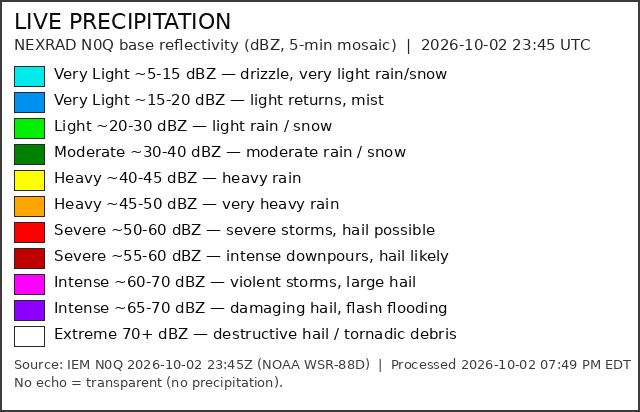
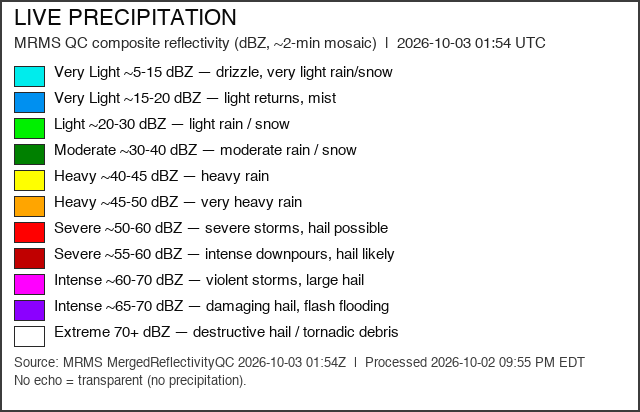
Precipitation source: MRMS QC reflectivity (drops N0Q clutter/bio echoes)

diff --git a/scripts/build_precipitation.py b/scripts/build_precipitation.py
@@ -1,33 +1,35 @@
 """Pipeline P1 — LIVE PRECIPITATION (independent).
 
-Source: Iowa Environmental Mesonet (Iowa State University) CONUS NEXRAD
-N0Q Base Reflectivity mosaic, built from the NOAA NWS WSR-88D Level-III
-network and regenerated every 5 minutes. Professional + credible:
-Iowa State archives the operational NWS feed and serves it as an OGC WMS.
+Source: NOAA NCEP MRMS MergedReflectivityQC (quality-controlled composite
+reflectivity), operational NSSL science distributed by NCEP, new files
+about every 2 minutes. Professional + credible: the same QC mosaic NWS
+forecasters use.
 
-Method: WMS GetMap for the exact common canvas
-(lon -93..-73.5, lat 40.5..49.5, 1800x1175, EPSG:4326, transparent PNG).
-The WMS renders the N0Q palette itself (cyan/blue = Very Light,
-green = Light/Moderate, yellow/orange = Heavy, red = Severe,
-magenta/purple = Intense, white = Extreme) so the live gradient in
-Google Earth IS the source's real-time gradient — never a recolor.
-No-precipitation pixels arrive fully transparent (alpha 0) and are
-kept transparent.
+Why QC instead of raw NEXRAD N0Q: the unfiltered N0Q mosaic passes
+non-precipitation echoes straight through — nighttime anomalous
+propagation and migrating birds/insects render as bright-green rings and
+blobs centered on radar sites, sitting in clear air where the cloud
+layer (and the sky) show nothing. Verified 2026-10-02: N0Q painted
+~16% of the basin while MRMS QC showed clear air at the same cells and
+kept only real echoes (max 34.5 dBZ, eastern lakes). QC filtering keeps
+rain, snow, and thunderstorms in all seasons and drops the rest.
 
-All seasons / all types: base reflectivity is echo strength from any
-hydrometeor — spring/summer/fall rain, winter snow + lake-effect snow,
-thunderstorms + hail whenever convection fires. Reflectivity does not
-classify type; it shows intensity, which is exactly what the Light /
-Moderate / Heavy / Severe / Intense / Extreme key explains.
+Method: list the MRMS directory, take the newest file, decode its dBZ
+grid (eccodes), bin the basin window onto the exact common canvas
+(lon -93..-73.5, lat 40.5..49.5, 1800x1175, EPSG:4326), and render the
+NWS-family palette (cyan/blue = Very Light, green = Light/Moderate,
+yellow/orange = Heavy, red = Severe, magenta/purple = Intense,
+white = Extreme) so the live gradient IS real-time source intensity —
+never a recolor. No-echo and no-coverage cells stay fully transparent
+(alpha 0); nothing is invented where the source has none.
 
 Raster-only GroundOverlay (never a video: Google Earth has no live
 video primitive — the overlay refreshes). Google Earth side refreshes
 every 30 s (fastest practical cadence: each poll re-fetches the live
 KML, and the overlay Icon re-requests its PNG, so a newly published
 scan appears within about half a minute; polling faster would only
-re-download an unchanged image since the source itself rebuilds every
-5 minutes). Source cadence is 5 minutes
-(IEM rebuilds the mosaic every 5 min); the 30 s poll guarantees no
+re-download an unchanged image since the source itself rebuilds about
+every 2 minutes). The 30 s poll guarantees no
 extra staleness is added client-side.
 
 Exit codes: 0 updated (or skipped); 2 source/validation failure
@@ -35,8 +37,10 @@ Exit codes: 0 updated (or skipped); 2 source/validation failure
 """
 
 import datetime as dt
+import gzip
 import json
 import os
+import re
 import sys
 import traceback
 import urllib.request
@@ -53,6 +57,7 @@ from geospatial_utils import (REPO_ROOT, SITE_DIR, USER_AGENT, base_metadata,
                               read_state, save_png, source_token, stage_dir,
                               write_metadata, write_state)
 from geospatial_utils import _legend_font, draw_category_legend  # noqa: F401 (shared helpers)
+from gradient_scale import render_rgba
 
 PRODUCT = "precipitation"
 CONFIG = json.load(open(os.path.join(REPO_ROOT, "config", f"{PRODUCT}.json")))
@@ -79,7 +84,8 @@ KEY_ROWS = [
 ]
 
 SCALE_HTML = (
-    "Precipitation intensity (NEXRAD N0Q base reflectivity, dBZ, OBSERVED radar echo): "
+    "Precipitation intensity (MRMS quality-controlled composite "
+    "reflectivity, dBZ, OBSERVED radar echo): "
     "<b>LOWEST 5 Very Light</b> cyan/blue (drizzle, mist) &rarr; "
     "<b>Light</b> greens (~20-30: light rain/snow) &rarr; "
     "<b>Moderate</b> dark green (~30-40: steady rain/snow) &rarr; "
@@ -88,18 +94,100 @@ SCALE_HTML = (
     "<b>Intense</b> magenta/purple (~60-70: violent storms, large hail) &rarr; "
     "<b>HIGHEST+ 70+ Extreme</b> white (destructive hail, debris). "
     "Same dBZ always shows the same color in every season — rain, snow, "
-    "lake-effect snow, thunderstorms. No echo (no precipitation) stays "
-    "see-through so the map underneath shows.")
+    "lake-effect snow, thunderstorms. The quality-controlled mosaic "
+    "filters non-precipitation echoes (ground clutter, migrating "
+    "birds/insects), so clear air stays see-through and only real "
+    "precipitation paints.")
+
+# Continuous dBZ anchors through the key colors (band centers exact).
+DBZ_STOPS = [
+    (5.0, (0, 236, 236)),
+    (17.0, (0, 144, 240)),
+    (25.0, (0, 240, 0)),
+    (35.0, (0, 128, 0)),
+    (42.0, (255, 255, 0)),
+    (47.0, (255, 165, 0)),
+    (55.0, (255, 0, 0)),
+    (65.0, (255, 0, 255)),
+    (68.0, (139, 0, 255)),
+    (72.0, (255, 255, 255)),
+    (75.0, (255, 255, 255)),
+]
+
+# MRMS QC reflectivity below this is sensor floor/clear — never painted.
+# (-99 = observed clear, -999 = no coverage; lowest real echo seen -10.)
+ECHO_FLOOR_DBZ = -30.0
+
+MRMS_DIR = "https://mrms.ncep.noaa.gov/2D/MergedReflectivityQC/"
+MRMS_RE = re.compile(
+    r"MRMS_MergedReflectivityQC_00\.50_(\d{8})-(\d{6})\.grib2\.gz")
 
 
-def wms_url():
-    b = load_bounds()
-    return (
-        f"{CONFIG['wms_url']}?SERVICE=WMS&VERSION=1.1.1&REQUEST=GetMap"
-        f"&LAYERS={CONFIG['wms_layer']}&STYLES=&SRS=EPSG:4326"
-        f"&BBOX={b['lon_min']},{b['lat_min']},{b['lon_max']},{b['lat_max']}"
-        f"&WIDTH={b['canvas_width']}&HEIGHT={b['canvas_height']}"
-        f"&FORMAT=image/png&TRANSPARENT=TRUE")
+def newest_mrms():
+    """Newest MRMS QC file (name, scan datetime UTC). Raises on failure."""
+    req = urllib.request.Request(MRMS_DIR, headers=USER_AGENT)
+    with urllib.request.urlopen(req, timeout=60) as r:
+        html = r.read().decode("utf-8", errors="replace")
+    cands = []
+    for m in MRMS_RE.finditer(html):
+        try:
+            scan = dt.datetime.strptime(m.group(1) + m.group(2),
+                                        "%Y%m%d%H%M%S")
+            scan = scan.replace(tzinfo=dt.timezone.utc)
+            cands.append((scan, m.group(0)))
+        except ValueError:
+            continue
+    if not cands:
+        raise ValueError("no MRMS QC files in directory listing")
+    cands.sort()
+    return cands[-1][1], cands[-1][0]
+
+
+def read_mrms_grid(path, bounds):
+    """Decode MRMS QC GRIB2 and return dBZ field on the common canvas."""
+    from eccodes import (codes_get, codes_get_values, codes_grib_new_from_file,
+                         codes_release)
+    with open(path, "rb") as f:
+        g = codes_grib_new_from_file(f)
+        if g is None:
+            raise ValueError("no GRIB message in file")
+        try:
+            nx = codes_get(g, "Nx")
+            ny = codes_get(g, "Ny")
+            lat0 = codes_get(g, "latitudeOfFirstGridPointInDegrees")
+            lon0 = codes_get(g, "longitudeOfFirstGridPointInDegrees")
+            lat1 = codes_get(g, "latitudeOfLastGridPointInDegrees")
+            lon1 = codes_get(g, "longitudeOfLastGridPointInDegrees")
+            vals = np.asarray(codes_get_values(g), dtype=float).reshape(ny, nx)
+        finally:
+            codes_release(g)
+    lon0 = lon0 - 360.0 if lon0 > 180 else lon0
+    lon1 = lon1 - 360.0 if lon1 > 180 else lon1
+    dx = (lon1 - lon0) / (nx - 1)
+    dy = (lat0 - lat1) / (ny - 1)  # rows run north -> south
+    if not (0.005 < dx < 0.02 and 0.005 < dy < 0.02):
+        raise ValueError(f"unexpected MRMS grid step {dx}/{dy}")
+    # Basin window slice (source ~1 km vs ~1.2 km canvas: cheap + exact).
+    j0 = max(int((bounds["lon_min"] - lon0) / dx) - 1, 0)
+    j1 = min(int((bounds["lon_max"] - lon0) / dx) + 2, nx)
+    i1 = max(int((lat0 - bounds["lat_max"]) / dy) - 1, 0)
+    i0 = min(int((lat0 - bounds["lat_min"]) / dy) + 2, ny)
+    if j1 <= j0 or i0 <= i1:
+        raise ValueError("basin window outside MRMS domain")
+    win = vals[i1:i0, j0:j1]
+    lons = lon0 + (np.arange(j0, j1) + 0.5) * dx
+    lats = lat0 - (np.arange(i1, i0) + 0.5) * dy
+    xx, yy = np.meshgrid(lons, lats)
+    from geospatial_utils import bin_to_canvas, canvas_indices
+    W, H = bounds["canvas_width"], bounds["canvas_height"]
+    rows, cols, valid = canvas_indices(yy, xx, bounds)
+    wflat = np.ascontiguousarray(win).ravel()
+    mask = valid & np.isfinite(wflat)
+    field, _c = bin_to_canvas(rows, cols, wflat, mask,
+                              (H, W), splat_radius=1)
+    field = np.where(np.isfinite(field) & (field >= ECHO_FLOOR_DBZ),
+                     field, np.nan)
+    return field
 
 
 def main():
@@ -113,24 +201,23 @@ def main():
 
 
 def run():
-    # Source id: current UTC 5-minute bin (IEM rebuilds the mosaic every
-    # 5 min). Cheap pre-check with no bulk state: the build itself IS the
-    # probe — a failed download keeps the previous raster (exit 2).
-    now = dt.datetime.now(dt.timezone.utc)
-    minute_bin = (now.minute // 5) * 5
-    scan_dt = now.replace(minute=minute_bin, second=0, microsecond=0)
-    source_id = f"iem-n0q-{scan_dt.strftime('%Y%m%d-%H%M')}"
+    # Source id: newest MRMS QC file on NCEP (2-minute cadence). The
+    # directory listing is the cheap pre-check: only a new filename
+    # triggers the ~250 KB download + decode.
+    try:
+        fname, scan_dt = newest_mrms()
+    except Exception as e:
+        print(f"[{PRODUCT}] NO FILE AVAILABLE (keeping previous): {e}")
+        return 2
+    source_id = f"mrms-qc-{scan_dt.strftime('%Y%m%d-%H%M%S')}"
     prev = read_state(PRODUCT)
-    # NOTE: no byte-stability skip here beyond the same-bin fast path:
-    # precipitation moves fast, and the workflow runs on the 12-minute
-    # cadence, so consecutive runs in one 5-min bin reuse the raster.
     if (prev.get("source_id") == source_id
             and os.path.exists(os.path.join(SITE_DIR, PRODUCT, "current.png"))
             and os.path.exists(os.path.join(SITE_DIR, "kml", "live", KML_FILE))):
         print(f"[{PRODUCT}] source unchanged ({source_id}); keeping raster.")
         return _refresh_kml()
     try:
-        return _build(scan_dt, source_id)
+        return _build(fname, scan_dt, source_id)
     except Exception as e:
         traceback.print_exc()
         print(f"[{PRODUCT}] VALIDATION FAILED: {type(e).__name__}: {e}. "
@@ -148,69 +235,72 @@ def _refresh_kml():
     return 0
 
 
-def _build(scan_dt, source_id):
+def _build(fname, scan_dt, source_id):
     bounds = load_bounds()
     stage = stage_dir(PRODUCT)
     stage_prod = os.path.join(stage, "site", PRODUCT)
     os.makedirs(stage_prod, exist_ok=True)
     W, H = bounds["canvas_width"], bounds["canvas_height"]
 
-    url = wms_url()
-    raw_path = os.path.join(RAW_DIR, "precip_n0q_current.png")
+    raw_path = os.path.join(RAW_DIR, "mrms_qc_current.grib2.gz")
     os.makedirs(RAW_DIR, exist_ok=True)
-    req = urllib.request.Request(url, headers=USER_AGENT)
-    with urllib.request.urlopen(req, timeout=120) as r:
+    req = urllib.request.Request(MRMS_DIR + fname, headers=USER_AGENT)
+    with urllib.request.urlopen(req, timeout=180) as r:
         data = r.read()
-    if len(data) < 20_000:
-        raise ValueError(f"WMS download too small ({len(data)} bytes)")
+    if len(data) < 50_000:
+        raise ValueError(f"MRMS download too small ({len(data)} bytes)")
     with open(raw_path, "wb") as f:
         f.write(data)
+    gz_path = os.path.join(RAW_DIR, "mrms_qc_current.grib2")
+    with gzip.open(raw_path, "rb") as zin, open(gz_path, "wb") as zout:
+        zout.write(zin.read())
+    if os.path.getsize(gz_path) < 100_000:
+        raise ValueError("MRMS GRIB2 too small after gunzip")
 
-    im = Image.open(raw_path).convert("RGBA")
-    if im.size != (W, H):
-        # WMS was asked for the exact canvas; resampling here would blur
-        # radar edges, so a size mismatch is a hard failure (keep previous).
-        raise ValueError(f"WMS image size {im.size} != canvas {(W, H)}")
-    rgba = np.array(im)
-    # No-precipitation transparency: the WMS returns alpha 0 where there
-    # is no echo. Enforce it (fully transparent stays transparent) and
-    # never invent color where the source has none.
-    n_opaque = int((rgba[:, :, 3] > 0).sum())
-    print(f"[{PRODUCT}] IEM N0Q {scan_dt:%Y-%m-%d %H:%MZ}: opaque={n_opaque} "
-          f"({100.0 * n_opaque / (W * H):.1f}% of canvas)")
+    field = read_mrms_grid(gz_path, bounds)
+    okv = np.isfinite(field)
+    n_valid = int(okv.sum())
+    cur_max = float(field[okv].max()) if n_valid else float("nan")
+    print(f"[{PRODUCT}] MRMS QC {scan_dt:%Y-%m-%d %H:%M:%SZ}: "
+          f"echo={n_valid} ({100.0 * n_valid / (W * H):.1f}% of canvas), "
+          f"max={cur_max:.1f} dBZ")
     # Clear-sky over the basin is VALID (transparent raster is honest, not
     # a failure) — same semantics as cloud_cover on a clear day.
 
+    rgba = render_rgba(field, list(DBZ_STOPS), bounds["overlay_alpha"])
     save_png(rgba, os.path.join(stage_prod, "current.png"))
+    n_opaque = int((rgba[:, :, 3] > 0).sum())
+    if n_opaque != n_valid:
+        raise ValueError("render/field transparency mismatch")
 
     data_time_utc = scan_dt.strftime("%Y-%m-%d %H:%M UTC")
-    subtitle = (f"NEXRAD N0Q base reflectivity (dBZ, 5-min mosaic)  |  "
+    subtitle = (f"MRMS QC composite reflectivity (dBZ, ~2-min mosaic)  |  "
                 f"{data_time_utc}")
     lw, lh = draw_category_legend(
         os.path.join(stage_prod, "legend.png"), CONFIG["title"], subtitle,
         KEY_ROWS,
-        f"Source: IEM N0Q {scan_dt:%Y-%m-%d %H:%MZ} (NOAA WSR-88D)  |  "
+        f"Source: MRMS MergedReflectivityQC {scan_dt:%Y-%m-%d %H:%MZ}  |  "
         f"Processed {now_det_str()}",
         note="No echo = transparent (no precipitation).")
     meta = base_metadata(
         PRODUCT, CONFIG["title"], CONFIG["freshness_label"],
         CONFIG["source_name"], CONFIG["source_url"], CONFIG["variable"],
         data_time_utc=data_time_utc,
-        source_last_modified_utc="n/a (WMS GetMap mosaic)",
+        source_last_modified_utc=fname,
         units="dBZ (display = observed dBZ)",
-        source_resolution="~1 km NEXRAD N0Q mosaic, 5-minute rebuilds; "
-                          "WMS GetMap sampled at the 1800x1175 canvas",
+        source_resolution="~1 km MRMS QC grid (7000x3500 CONUS), 2-minute files; "
+                          "basin window mean-binned to the 1800x1175 canvas",
         color_min=5.0, color_max=75.0, color_units="dBZ",
-        missing_data_treatment=("only WMS echo pixels paint; no-echo and "
-                                "missing render fully transparent (alpha 0); "
-                                "full basin rectangle, no shoreline cut; "
-                                "never zero-filled."))
+        missing_data_treatment=("only MRMS cells at/above the echo floor paint; "
+                                "clear-air (-99) and no-coverage (-999) render "
+                                "fully transparent (alpha 0); full basin "
+                                "rectangle, no shoreline cut; never zero-filled."))
     meta["legend_size"] = [lw, lh]
     meta["legend_scale_html"] = SCALE_HTML
-    meta["model_cycle"] = f"IEM N0Q mosaic {scan_dt:%Y-%m-%d %H:%MZ}"
+    meta["model_cycle"] = f"MRMS QC {scan_dt:%Y-%m-%d %H:%M:%SZ}"
     meta["source_id"] = source_id
     meta["source_version"] = source_token(source_id)
-    meta["wms_request"] = url
+    meta["mrms_file"] = fname
     meta["stats"] = {"opaque_pixels": n_opaque,
                      "transparent_pixels": int(W * H - n_opaque)}
     token = meta["source_version"]
@@ -235,13 +325,13 @@ def _build(scan_dt, source_id):
         f"<p><b>Variable:</b> {CONFIG['variable']}<br/>"
         f"<b>Units:</b> dBZ<br/>"
         f"<b>Source:</b> {CONFIG['source_name']}<br/>"
-        f"<b>Update:</b> mosaic rebuilt every 5 minutes; Google Earth "
-        f"re-polls every 60 seconds<br/>"
+        f"<b>Update:</b> QC files about every 2 minutes; Google Earth "
+        f"re-polls every 30 seconds<br/>"
         f"<b>Data time:</b> {data_time_utc}<br/>"
         f"<b>Source version:</b> {source_id}<br/>"
         f"<b>Processed:</b> {meta['processing_time_utc']}<br/>"
-        f"<b>Provenance:</b> <a href=\"{CONFIG['source_url']}\">IEM / NOAA "
-        f"NEXRAD</a></p>")
+        f"<b>Provenance:</b> <a href=\"{CONFIG['source_url']}\">NOAA NCEP "
+        f"MRMS</a></p>")
     meta["folder_html"] = folder_html
     write_metadata(stage_prod, meta)
     block = legend_block(f"{PRODUCT}/legend.png", token, SCALE_HTML)

diff --git a/README.md b/README.md
@@ -21,7 +21,7 @@ sources, plus **sixteen live game-fish distribution gradients** (see below).
 | ☁ Live Cloud Cover | NOAA/NCEP HRRR 3 km TCDC entire-atmosphere analysis, hourly cycles; basin rectangle, clear (<1 %) transparent | LIVE / CURRENT MODEL (hourly cycle, 15-min steps) |
 | 🧭 Live Surface Pressure | NOAA/NCEP HRRR 3 km MSLMA sea-level pressure analysis, hourly cycles; basin rectangle, 1013.25 hPa mid-scale | LIVE / CURRENT MODEL (analysis), hourly cycles |
 | 🧭 Live Wave Direction | NCEP GLWU v2.1 PERPW peak period (seconds) + WVDIR travel arrows, water-only | LIVE / CURRENT MODEL (analysis), 6-hourly cycles |
-| 🌧 Live Precipitation | IEM (Iowa State) CONUS NEXRAD N0Q base reflectivity from NOAA WSR-88D (dBZ, all-season rain/snow/storms), 5-min mosaic; basin rectangle, no-echo transparent | LIVE / CURRENT OBSERVATION (NEXRAD 5-min mosaic) |
+| 🌧 Live Precipitation | NOAA NCEP MRMS quality-controlled composite reflectivity (dBZ, clutter-filtered rain/snow/storms), ~2-min files; basin rectangle, no-echo transparent | LIVE / CURRENT OBSERVATION (MRMS 2-min QC mosaic) |
 
 Sixteen additional **live game-fish distribution gradients** (walleye, yellow perch,
 lake trout, steelhead, brown trout, smallmouth bass, northern pike, muskellunge,
